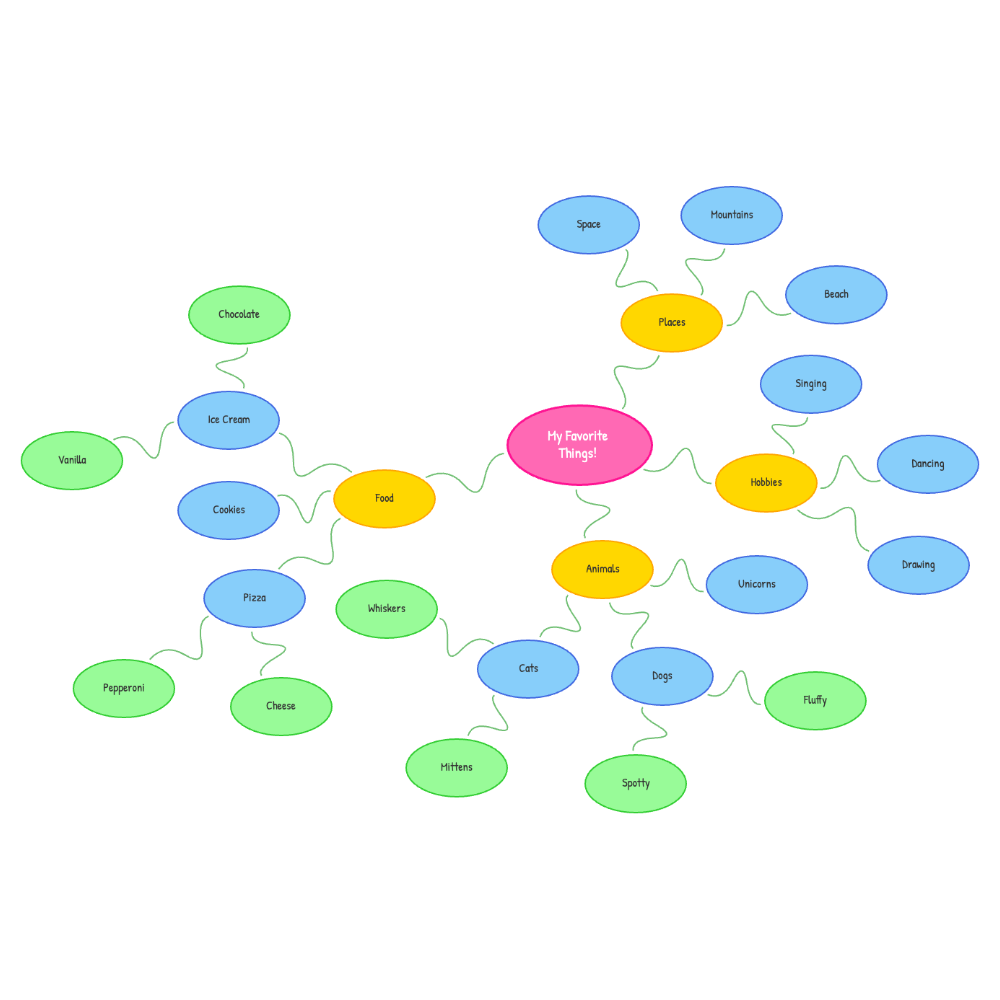
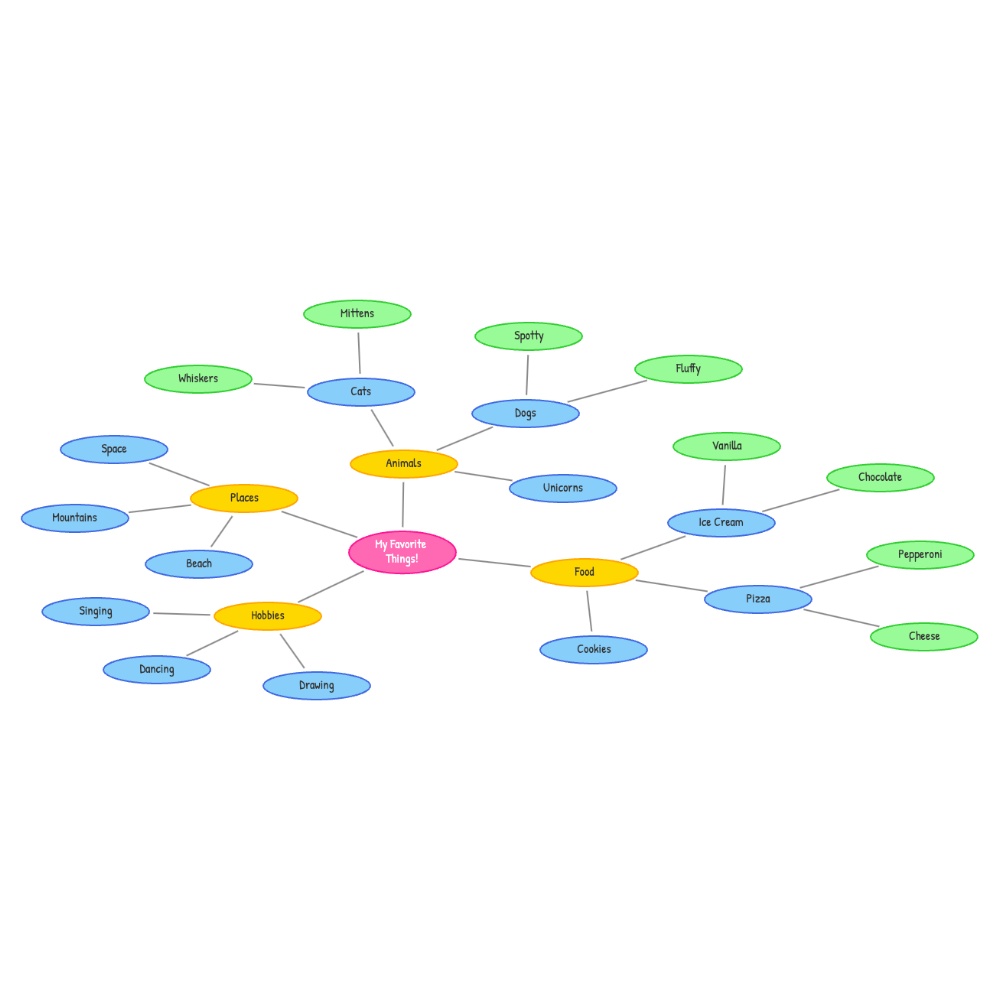
fix: Fix playful-mindmap template — smooth edges, standard classes, sane sizing
Remove unbundled-bezier edge kink, fix giant 192px edge text (12 → 0.875),
replace green edges with neutral gray, and use standard .color_* classes
so right-click color menu works.

diff --git a/app/src/lib/templates/playful-mindmap-template.ts b/app/src/lib/templates/playful-mindmap-template.ts
@@ -1,31 +1,31 @@
 import { FFTheme } from "../FFTheme";
 
 export const content = `
-My Favorite Things! .root
-  Animals .category
-    Dogs .subcategory
-      Fluffy .item
-      Spotty .item
-    Cats .subcategory
-      Whiskers .item
-      Mittens .item
-    Unicorns .subcategory
-  Food .category
-    Pizza .subcategory
-      Cheese .item
-      Pepperoni .item
-    Ice Cream .subcategory
-      Chocolate .item
-      Vanilla .item
-    Cookies .subcategory
-  Hobbies .category
-    Drawing .subcategory
-    Dancing .subcategory
-    Singing .subcategory
-  Places .category
-    Beach .subcategory
-    Mountains .subcategory
-    Space .subcategory
+My Favorite Things! .color_pink .size_lg
+  Animals .color_yellow
+    Dogs .color_blue
+      Fluffy .color_green
+      Spotty .color_green
+    Cats .color_blue
+      Whiskers .color_green
+      Mittens .color_green
+    Unicorns .color_blue
+  Food .color_yellow
+    Pizza .color_blue
+      Cheese .color_green
+      Pepperoni .color_green
+    Ice Cream .color_blue
+      Chocolate .color_green
+      Vanilla .color_green
+    Cookies .color_blue
+  Hobbies .color_yellow
+    Drawing .color_blue
+    Dancing .color_blue
+    Singing .color_blue
+  Places .color_yellow
+    Beach .color_blue
+    Mountains .color_blue
+    Space .color_blue
 `;
 
 export const theme: FFTheme = {
@@ -49,13 +49,13 @@ export const theme: FFTheme = {
 
   curveStyle: "bezier",
   edgeWidth: 2,
-  edgeColor: "#4CAF50",
+  edgeColor: "#888888",
   sourceArrowShape: "none",
   targetArrowShape: "none",
   sourceDistanceFromNode: 5,
   targetDistanceFromNode: 5,
   arrowScale: 1,
-  edgeTextSize: 12,
+  edgeTextSize: 0.875,
   rotateEdgeLabel: false,
   fixedHeight: 100,
 };
@@ -63,54 +63,61 @@ export const theme: FFTheme = {
 export const cytoscapeStyle = `
 @import url('https://fonts.googleapis.com/css2?family=Patrick+Hand&display=swap');
 
-node {
-  font-weight: normal;
-  font-size: 16px;
-  text-halign: center;
-  text-valign: center;
-  color: #333333;
-  text-wrap: wrap;
-  text-max-width: 100px;
-  padding: 10px;
-  shape: ellipse;
-  width: 120px;
-  height: 60px;
-  border-width: 2px;
-  border-color: #FF69B4;
+$pink: #FF69B4;
+$yellow: #FFD700;
+$blue: #87CEFA;
+$green: #98FB98;
+$red: #FF6B6B;
+$orange: #FFB347;
+$purple: #DDA0DD;
+$grey: #D3D3D3;
+
+:childless.size_lg {
+  font-size: 30;
+  width: 150;
+  line-height: 1;
+  text-max-width: 130;
 }
 
-edge {
-  width: 2px;
-  line-color: #4CAF50;
-  opacity: 0.8;
-  curve-style: unbundled-bezier;
-  control-point-distances: 20 -40 20;
-  control-point-weights: 0.25 0.5 0.75;
-}
-
-.root {
-  background-color: #FF69B4;
-  border-width: 3px;
+:childless.color_pink {
+  background-color: $pink;
   border-color: #FF1493;
-  width: 180px;
-  height: 90px;
-  font-size: 20px;
   color: #FFFFFF;
 }
 
-.category {
-  background-color: #FFD700;
+:childless.color_yellow {
+  background-color: $yellow;
   border-color: #FFA500;
 }
 
-.subcategory {
-  background-color: #87CEFA;
+:childless.color_blue {
+  background-color: $blue;
   border-color: #4169E1;
 }
 
-.item {
-  background-color: #98FB98;
+:childless.color_green {
+  background-color: $green;
   border-color: #32CD32;
+}
+
+:childless.color_red {
+  background-color: $red;
+  border-color: #CC0000;
+}
+
+:childless.color_orange {
+  background-color: $orange;
+  border-color: #FF8C00;
+}
+
+:childless.color_purple {
+  background-color: $purple;
+  border-color: #9B30FF;
+}
+
+:childless.color_grey {
+  background-color: $grey;
+  border-color: #A9A9A9;
 }
 
 node:selected {
